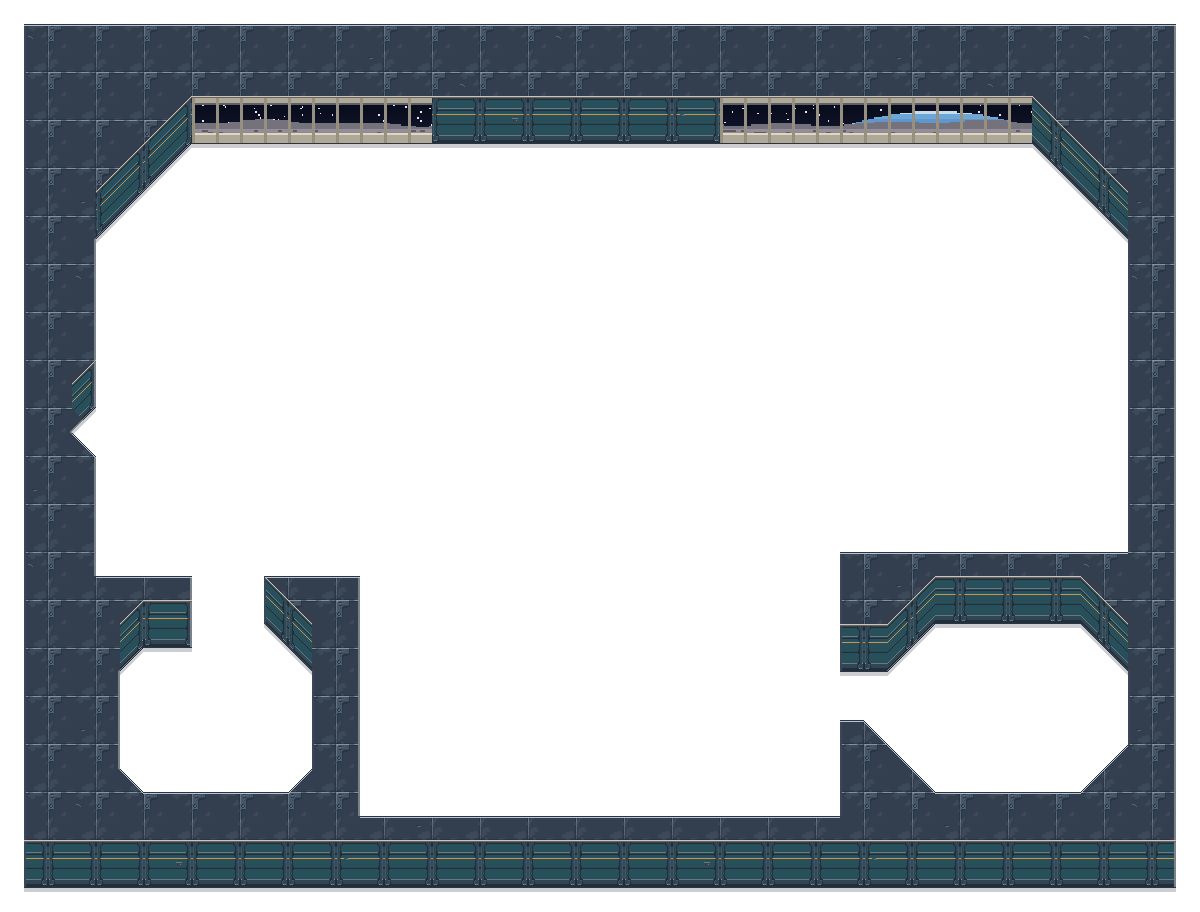
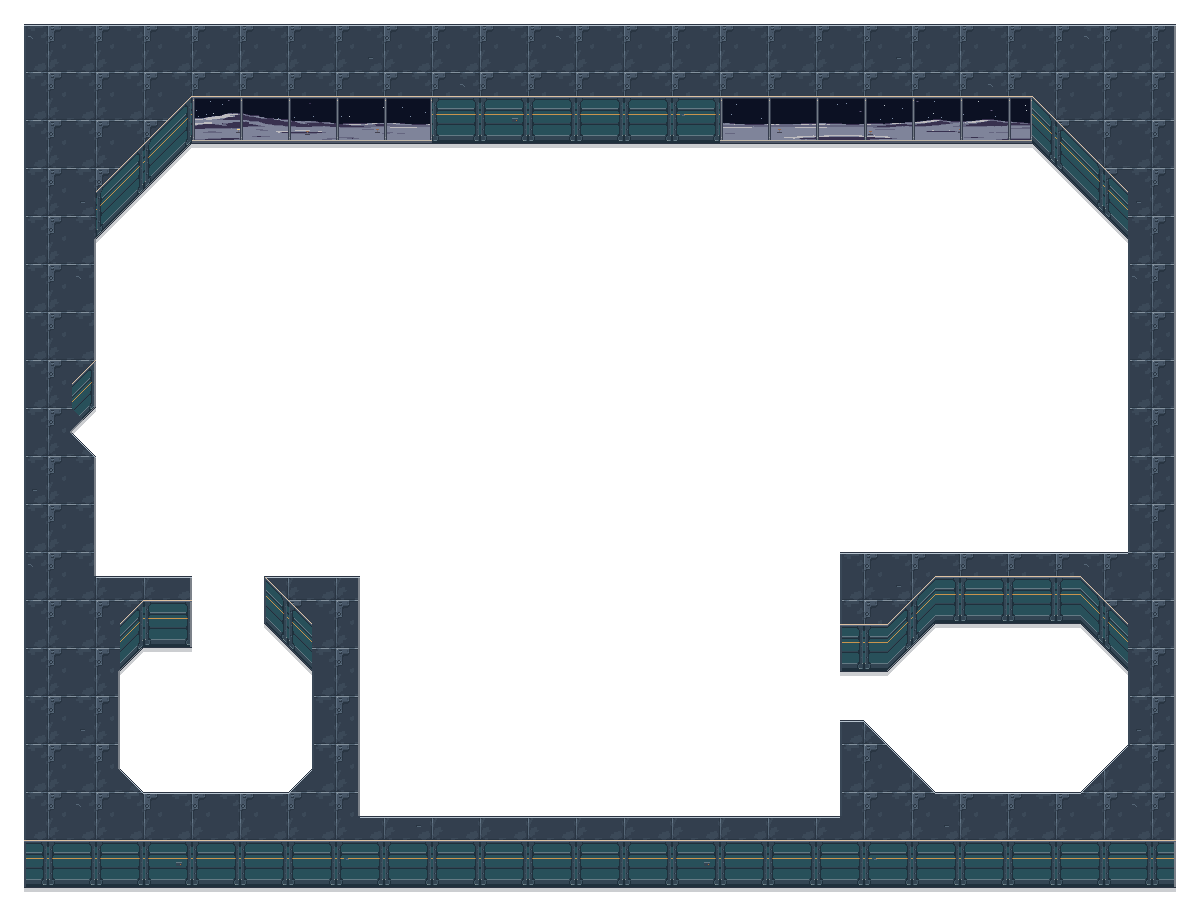
Animate the lunar crater outside the shuttle bay windows

Changed region(s): [[0.5858, 0.0921, 0.8633, 0.1535], [0.1542, 0.0921, 0.37, 0.1535]]

diff --git a/tools/bake_floor.py b/tools/bake_floor.py
@@ -720,38 +720,12 @@ def wall_border_chars(rows):
     return ["".join(r) for r in out]
 
 
-def crater_strip(width_px, seed=5):
-    """The view out of the shuttle bay's windows: black sky and stars, the gas giant low on one side, the far
-    rim of the crater, and the grey crater floor close up. One strip 32 pixels tall across the whole map."""
-    import random
-    rnd = random.Random(seed)
-    W, H = width_px, 32
-    img = np.zeros((H, W, 4), dtype=np.uint8)
-    y, x = np.mgrid[0:H, 0:W]
-    img[..., :3] = np.stack([6 + y * 0.5, 8 + y * 0.6, 20 + y * 1.0], axis=-1).astype(np.uint8); img[..., 3] = 255
-    for _ in range(W // 5):
-        sx, sy = rnd.randrange(W), rnd.randrange(6, 20)
-        img[sy, sx, :3] = (230, 232, 250)
-    cx, cy, R = W * 0.78, 200.0, 190.0
-    d = np.hypot(x + .5 - cx, y + .5 - cy); inside = d < R
-    band = ((y + (x - cx) ** 2 / 3000.0) / 3.0).astype(int) % 5
-    pal = np.array([[96, 150, 206], [150, 196, 232], [74, 120, 186], [196, 222, 240], [110, 166, 214]], dtype=np.uint8)
-    img[inside, :3] = pal[band][inside]
-    # far crater rim: a ragged grey line, then the near floor
-    rim = 18 + (np.sin(x / 37.0) * 2 + np.sin(x / 11.0 + 1.3) * 1.2).astype(int)
-    far = (y >= rim) & (y < 22)
-    img[far, :3] = (118, 114, 124)
-    near = y >= 22
-    shade = (150 - (y - 22) * 3).clip(100, 160)
-    img[near, 0] = shade[near]; img[near, 1] = (shade - 6)[near]; img[near, 2] = (shade + 4)[near]
-    for _ in range(W // 9):
-        bx, by = rnd.randrange(W), rnd.randrange(23, 26)
-        img[by:by + 1, bx:bx + 3, :3] = (96, 92, 100)
-    img[0:5, :, :3] = (176, 168, 150); img[5, :, :3] = (90, 96, 112)
-    img[H - 6:H, :, :3] = (176, 168, 150); img[H - 7, :, :3] = (220, 214, 196)
-    for mx in range(0, W, 16):
-        img[:, mx:mx + 2, :3] = (150, 144, 128)
-    return Image.fromarray(img, "RGBA")
+def bay_window_strip(map_width, art_dir):
+    """Use the quiet view's first native frame for the static wall bake."""
+    with Image.open(os.path.join(art_dir, "bay_sky", "quiet.png")) as atlas:
+        if atlas.width != map_width * PX or atlas.height % (2 * PX):
+            raise ValueError("Shuttle Bay window atlas does not fit the current map")
+        return atlas.crop((0, 0, atlas.width, 2 * PX))
 
 
 if __name__ == "__main__":

diff --git a/tools/build.py b/tools/build.py
@@ -3051,7 +3051,7 @@ for key_ in bake_floor.AREA_FLOORS:
     print("floor baked: art/lunar/floor_%s.png" % key_)
 # The lounge bake uses the quiet frame of the animated view.
 bake_floor.lounge_window_strip(A["lounge"].w, os.path.join(OUT, "art", "lunar")).save(os.path.join(OUT, "art", "lunar", "window_lounge.png"))
-bake_floor.crater_strip(A["bay"].w * 16).resize((A["bay"].w * bake_floor.PX, 2 * bake_floor.PX), bake_floor.Image.NEAREST).save(os.path.join(OUT, "art", "lunar", "window_bay.png"))
+bake_floor.bay_window_strip(A["bay"].w, os.path.join(OUT, "art", "lunar")).save(os.path.join(OUT, "art", "lunar", "window_bay.png"))
 for key_ in ["main"] + list(bake_floor.AREA_FLOORS):
     win_ = os.path.join(OUT, "art", "lunar", "window_%s.png" % key_)
     bake_floor.bake_walls(key_, A[key_].floor, os.path.join(OUT, "art", "lunar"), bake_floor.Image.open(win_) if os.path.exists(win_) else None).save(os.path.join(OUT, "art", "lunar", "walls_%s.png" % key_))
